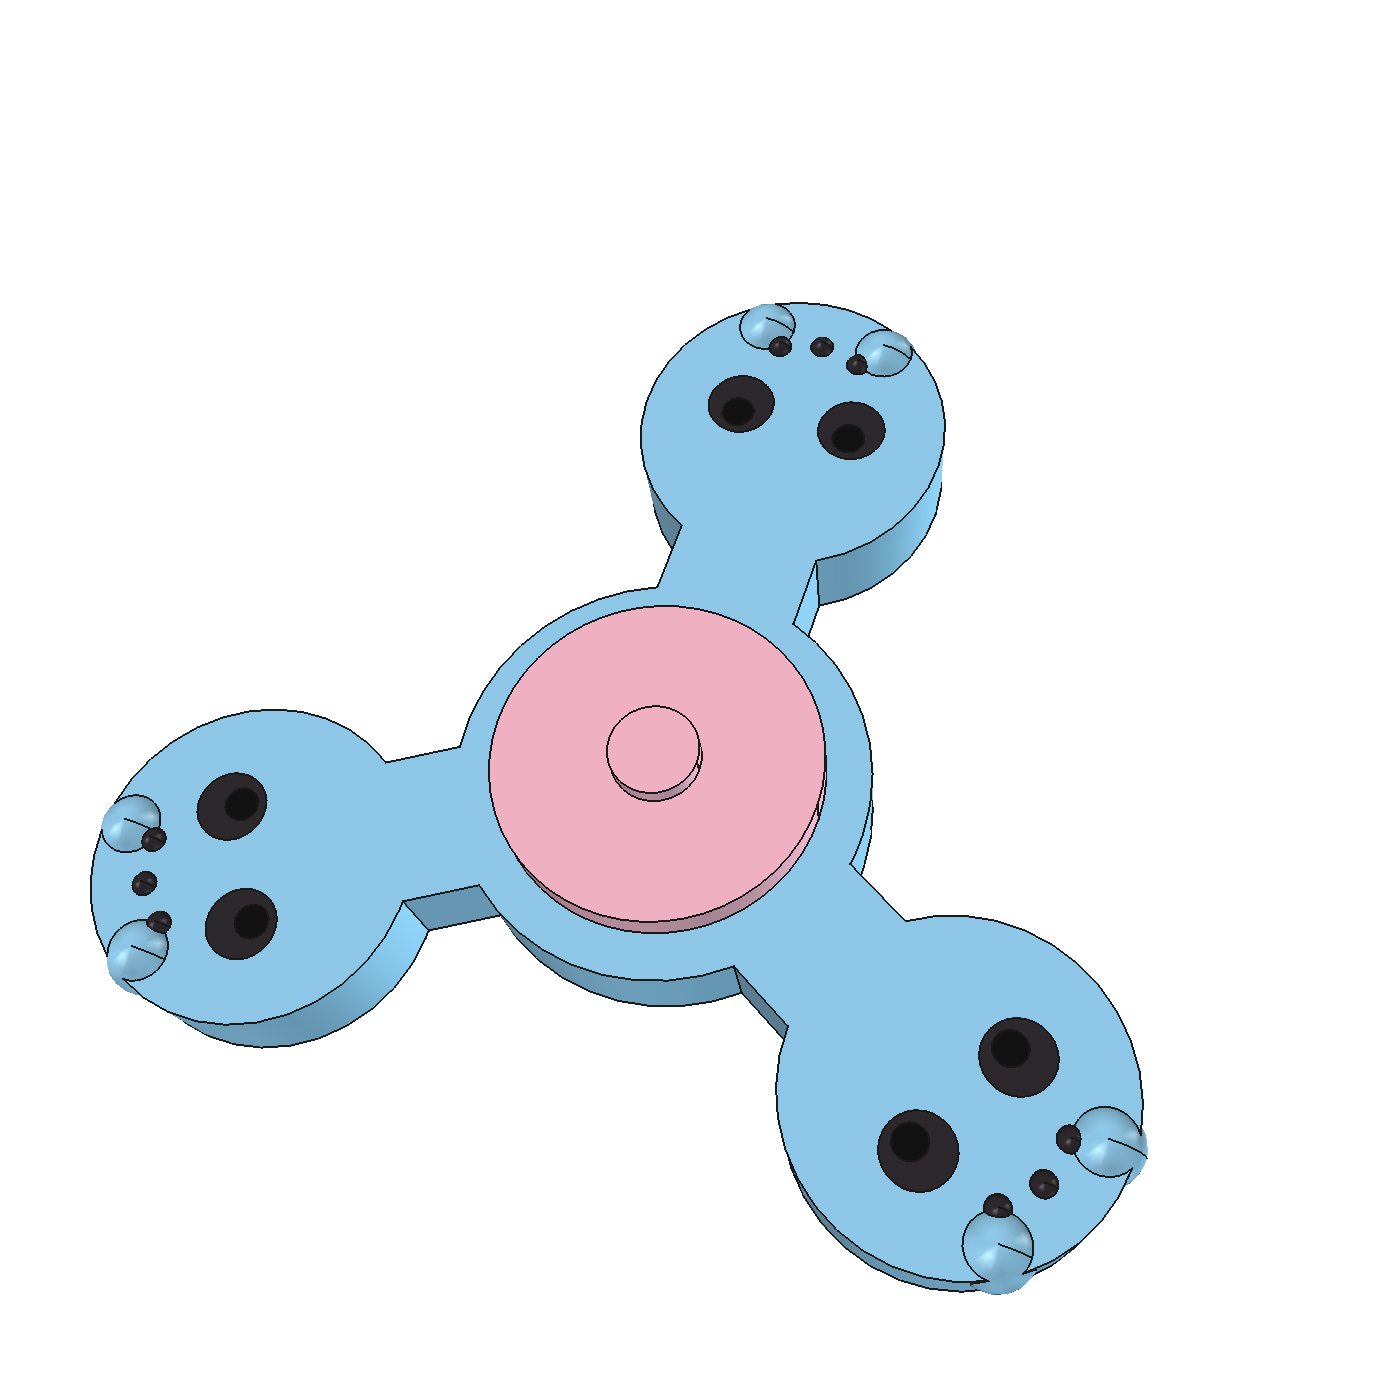
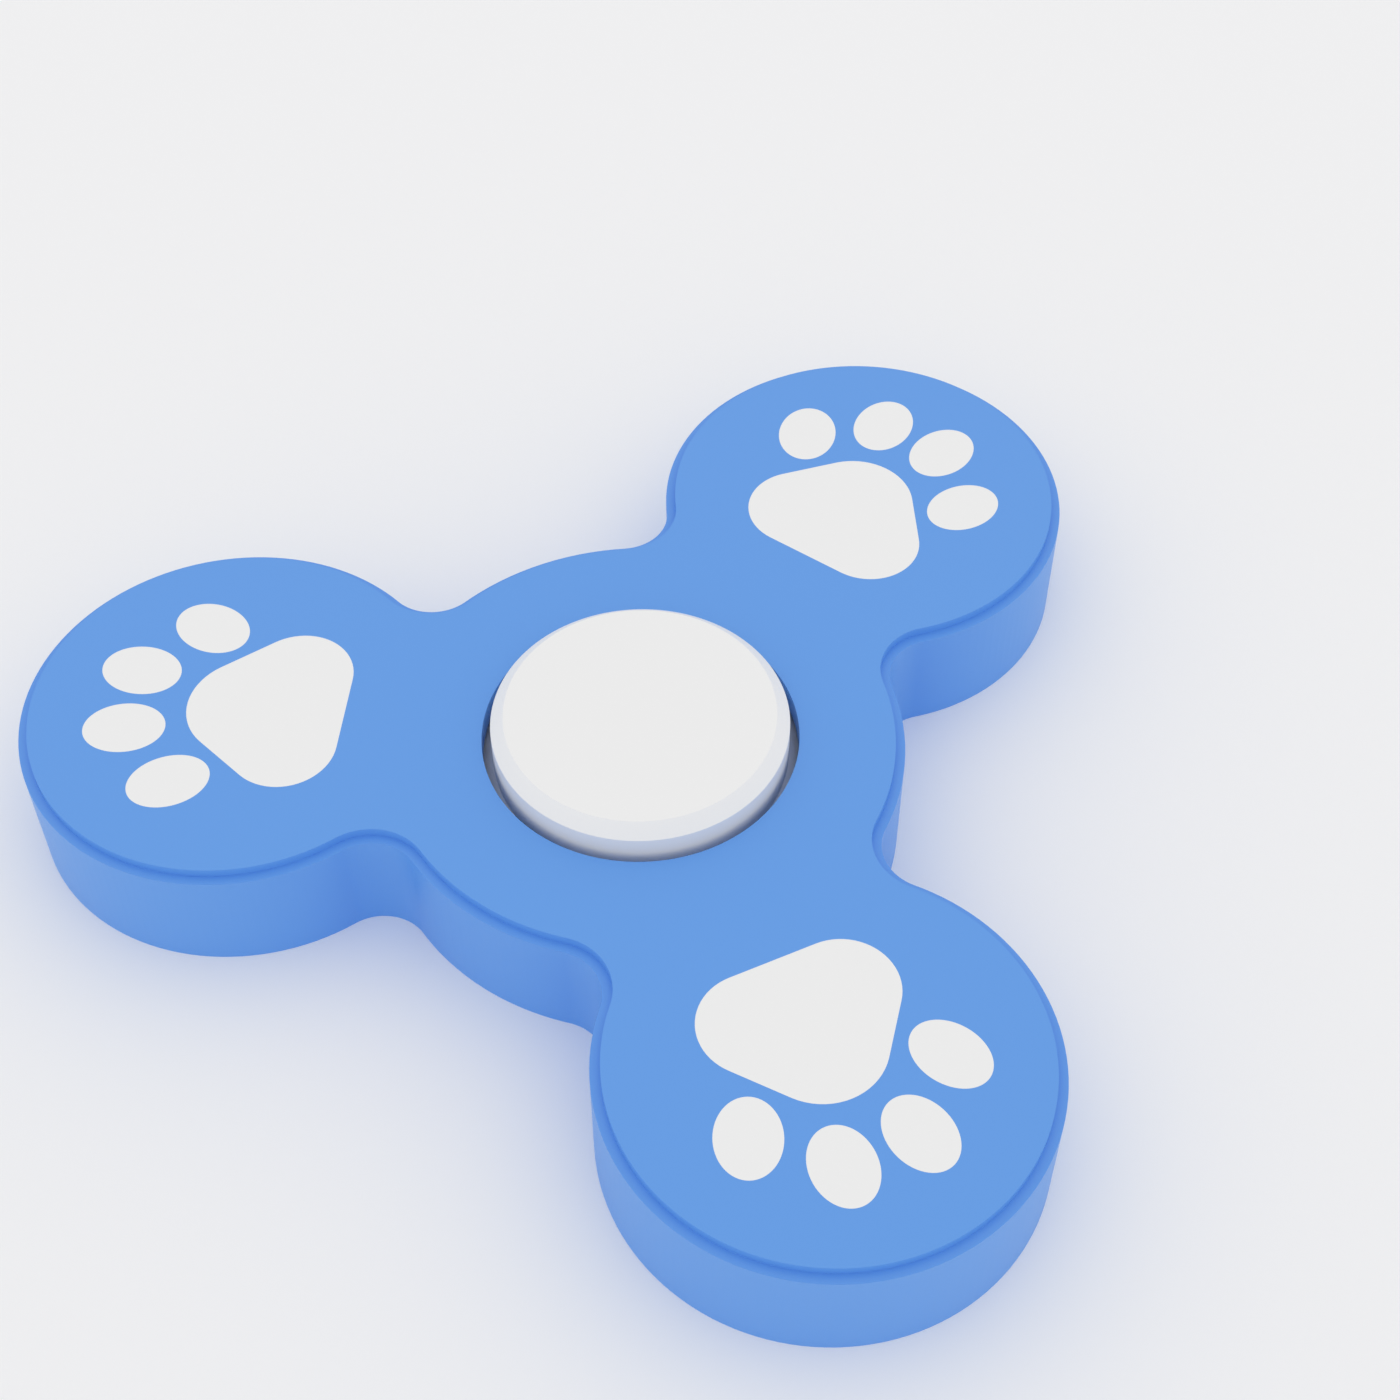
Store: Fidgets section (paw spinner as a 3-pack with Hardy's new photo), caterpillar and skateboard removed; 20% floor with .99 prices checked against competitor prices (shown on the cost sheet); postage cost updated for USPS July 2026; add-ons $1.99 / $3.49 / $3.49

diff --git a/company/site/www/index.html b/company/site/www/index.html
@@ -37,7 +37,7 @@ footer{color:rgba(255,255,255,.6);font-size:12.5px;padding:40px 0 24px;letter-sp
   color:rgba(255,255,255,.62);font-size:12.5px;padding:12px 16px 0}
 .whobar a{color:#7dd3fc;text-decoration:none;font-weight:700}
 </style><script type="application/ld+json">{"@context": "https://schema.org", "@type": "Organization", "name": "Hardy Wu", "url": "https://hardywu.com", "logo": "https://hardywu.com/logo.png", "sameAs": ["https://shop.hardywu.com", "https://bookkeep.hardywu.com"]}</script>
-<script type="application/ld+json">{"@context": "https://schema.org", "@type": "ItemList", "name": "Hardy's 3D prints", "itemListElement": [{"@type": "ListItem", "position": 1, "item": {"@type": "Product", "name": "Blue Crab Gauge", "url": "https://shop.hardywu.com/products/crab-gauge", "image": "https://play.hardywu.com/products/crab-gauge/Crab_Gauge_photo.webp", "description": "A handy blue-crab measuring gauge with an embossed scale \u2014 check your catch in seconds, then hang it back on its hook.", "offers": {"@type": "Offer", "price": "14.03", "priceCurrency": "USD", "availability": "https://schema.org/InStock"}}}, {"@type": "ListItem", "position": 2, "item": {"@type": "Product", "name": "Customizable Lunchbox", "url": "https://shop.hardywu.com/products/customizable-lunchbox", "image": "https://play.hardywu.com/products/customizable-lunchbox/Sophia_Lunchbox_render.webp", "description": "A hinged, printed lunchbox with a carry handle \u2014 pick your colors, add a name, and send a picture your kid loves to get it printed right on the front. Made to order, one of a kind.", "offers": {"@type": "Offer", "price": "38.73", "priceCurrency": "USD", "availability": "https://schema.org/InStock"}}}, {"@type": "ListItem", "position": 3, "item": {"@type": "Product", "name": "Dual Ruler", "url": "https://shop.hardywu.com/products/dual-ruler", "image": "https://play.hardywu.com/products/dual-ruler/Dual_Ruler_photo.webp", "description": "A sturdy ruler with centimeters along one edge and inches along the other, with crisp raised markings.", "offers": {"@type": "Offer", "price": "13.55", "priceCurrency": "USD", "availability": "https://schema.org/InStock"}}}, {"@type": "ListItem", "position": 4, "item": {"@type": "Product", "name": "Paw Fidget Spinner", "url": "https://shop.hardywu.com/products/fidget-spinner", "image": "https://play.hardywu.com/products/fidget-spinner/Fidget_Spinner_photo.webp", "description": "A paw-print fidget spinner with a press-fit center button and three cute lobed faces. Comes multicolored as shown.", "offers": {"@type": "Offer", "price": "17.71", "priceCurrency": "USD", "availability": "https://schema.org/InStock"}}}, {"@type": "ListItem", "position": 5, "item": {"@type": "Product", "name": "Flexi Caterpillar", "url": "https://shop.hardywu.com/products/flexi-caterpillar", "image": "https://play.hardywu.com/products/flexi-caterpillar/Flexi_Caterpillar_photo.webp", "description": "A print-in-place caterpillar with linked segments that wiggle and flex in your hand. Comes in rainbow colors as shown.", "offers": {"@type": "Offer", "price": "18.05", "priceCurrency": "USD", "availability": "https://schema.org/InStock"}}}, {"@type": "ListItem", "position": 6, "item": {"@type": "Product", "name": "Flexi Skeleton", "url": "https://shop.hardywu.com/products/flexi-skeleton", "image": "https://play.hardywu.com/products/flexi-skeleton/Flexi_Skeleton_photo.webp", "description": "A big-headed flexi skeleton with jointed limbs and a toothy grin \u2014 it flops, sits, and poses. Printed in the color you choose.", "offers": {"@type": "Offer", "price": "15.38", "priceCurrency": "USD", "availability": "https://schema.org/InStock"}}}, {"@type": "ListItem", "position": 7, "item": {"@type": "Product", "name": "Finger Skateboard", "url": "https://shop.hardywu.com/products/fingerboard", "image": "https://play.hardywu.com/products/fingerboard/Fingerboard_photo.webp", "description": "A pocket-size finger skateboard with a curved kicktail deck and real rolling wheels. Comes multicolored as shown.", "offers": {"@type": "Offer", "price": "17.11", "priceCurrency": "USD", "availability": "https://schema.org/InStock"}}}]}</script>
+<script type="application/ld+json">{"@context": "https://schema.org", "@type": "ItemList", "name": "Hardy's 3D prints", "itemListElement": [{"@type": "ListItem", "position": 1, "item": {"@type": "Product", "name": "Blue Crab Gauge", "url": "https://shop.hardywu.com/products/crab-gauge", "image": "https://play.hardywu.com/products/crab-gauge/Crab_Gauge_photo.webp", "description": "A handy blue-crab measuring gauge with an embossed scale \u2014 check your catch in seconds, then hang it back on its hook.", "offers": {"@type": "Offer", "price": "13.99", "priceCurrency": "USD", "availability": "https://schema.org/InStock"}}}, {"@type": "ListItem", "position": 2, "item": {"@type": "Product", "name": "Customizable Lunchbox", "url": "https://shop.hardywu.com/products/customizable-lunchbox", "image": "https://play.hardywu.com/products/customizable-lunchbox/Sophia_Lunchbox_render.webp", "description": "A hinged, printed lunchbox with a carry handle \u2014 pick your colors, add a name, and send a picture your kid loves to get it printed right on the front. Made to order, one of a kind.", "offers": {"@type": "Offer", "price": "35.99", "priceCurrency": "USD", "availability": "https://schema.org/InStock"}}}, {"@type": "ListItem", "position": 3, "item": {"@type": "Product", "name": "Dual Ruler", "url": "https://shop.hardywu.com/products/dual-ruler", "image": "https://play.hardywu.com/products/dual-ruler/Dual_Ruler_photo.webp", "description": "A sturdy ruler with centimeters along one edge and inches along the other, with crisp raised markings.", "offers": {"@type": "Offer", "price": "13.99", "priceCurrency": "USD", "availability": "https://schema.org/InStock"}}}, {"@type": "ListItem", "position": 4, "item": {"@type": "Product", "name": "Paw Fidget Spinner (pack of 3)", "url": "https://shop.hardywu.com/products/fidget-spinner", "image": "https://play.hardywu.com/products/fidget-spinner/Paw_Fidget_Spinner_2026-10-28.webp", "description": "Three paw-print fidget spinners in one pack: white paw prints on the arms and a centre button that spins in a groove, no bearing needed. Body in the color you pick; want three different colors? Say so in the color request box.", "offers": {"@type": "Offer", "price": "25.99", "priceCurrency": "USD", "availability": "https://schema.org/InStock"}}}, {"@type": "ListItem", "position": 5, "item": {"@type": "Product", "name": "Flexi Skeleton", "url": "https://shop.hardywu.com/products/flexi-skeleton", "image": "https://play.hardywu.com/products/flexi-skeleton/Flexi_Skeleton_photo.webp", "description": "A big-headed flexi skeleton with jointed limbs and a toothy grin \u2014 it flops, sits, and poses. Printed in the color you choose.", "offers": {"@type": "Offer", "price": "14.99", "priceCurrency": "USD", "availability": "https://schema.org/InStock"}}}]}</script>
 </head><body>
 <div class="whobar"></div>
 <div class="crumbs"></div>

diff --git a/company/corporate/server.py b/company/corporate/server.py
@@ -956,17 +956,20 @@ def cost_sheet():
         design = c.get("designHours", 0) * k.get("designPerHour", 20) / max(1, k.get("designUnits", 40))
         total = material + elec + labor + design + c.get("shipping", 0) + c.get("packaging", 0)
         price = float(p["price"]); margin = (price - total) / price if price else 0
-        rows.append((p["name"], c, material, elec, labor, design, total, total / (1 - k.get("minMargin", .3)), price, margin))
+        rows.append((p["name"] + (" ✎" if p.get("priceSetBy") else ""), c, material, elec, labor, design, total, total / (1 - k.get("minMargin", .3)), price, margin, p.get("market", "")))
     ad = cat.get("addons") or {}
     html = ["<!doctype html><meta charset=utf-8><meta name=viewport content='width=device-width,initial-scale=1'><title>Costs — Hardy's 3D</title>",
             "<style>body{font-family:-apple-system,Inter,sans-serif;background:#03102c;color:#fff;padding:20px;max-width:1100px;margin:0 auto}table{border-collapse:collapse;width:100%;font-size:14px;margin:14px 0}td,th{padding:7px 8px;border-bottom:1px solid rgba(255,255,255,.15);text-align:right}th:first-child,td:first-child{text-align:left}th{color:#9fd1ff;font-weight:600}.ok{color:#5fd38a;font-weight:700}.bad{color:#ff6b6b;font-weight:700}.sm{color:rgba(255,255,255,.65);font-size:13px}a{color:#9fe3ff}</style>",
             "<h1>What each piece costs</h1><p class=sm>Shipping is free for the buyer, so postage is part of the cost. Price must leave at least " + f"{k.get('minMargin', .3):.0%}" + " gross margin. Numbers are estimates in company/site/shop/data/catalog.json — tell Claude to change any of them.</p>",
-            "<table><tr><th>Product</th><th>Filament</th><th>Print</th><th>Material</th><th>Electricity</th><th>Labour</th><th>Design</th><th>Postage</th><th>Packaging</th><th>Cost</th><th>Min price</th><th>Price</th><th>Margin</th></tr>"]
-    for name, c, m, e, l, d, t, mn, pr, mg in rows:
+            "<table><tr><th>Product</th><th>Filament</th><th>Print</th><th>Material</th><th>Electricity</th><th>Labour</th><th>Design</th><th>Postage</th><th>Packaging</th><th>Cost</th><th>Min price</th><th>Price</th><th>Margin</th><th style='text-align:left'>What competitors charge</th></tr>"]
+    for name, c, m, e, l, d, t, mn, pr, mg, mk in rows:
         cls = "ok" if mg >= k.get("minMargin", .3) - 1e-9 else "bad"
-        html.append(f"<tr><td>{name}</td><td>{c.get('grams',0)} g</td><td>{c.get('printHours',0)} h</td><td>${m:.2f}</td><td>${e:.2f}</td><td>${l:.2f} <span class=sm>({c.get('laborHours',0)} h)</span></td><td>${d:.2f} <span class=sm>({c.get('designHours',0)} h ÷ {k.get('designUnits',40)})</span></td><td>${c.get('shipping',0):.2f}</td><td>${c.get('packaging',0):.2f}</td><td><b>${t:.2f}</b></td><td>${mn:.2f}</td><td><b>${pr:.2f}</b></td><td class={cls}>{mg:.0%}</td></tr>")
+        html.append(f"<tr><td>{name}</td><td>{c.get('grams',0)} g</td><td>{c.get('printHours',0)} h</td><td>${m:.2f}</td><td>${e:.2f}</td><td>${l:.2f} <span class=sm>({c.get('laborHours',0)} h)</span></td><td>${d:.2f} <span class=sm>({c.get('designHours',0)} h ÷ {k.get('designUnits',40)})</span></td><td>${c.get('shipping',0):.2f}</td><td>${c.get('packaging',0):.2f}</td><td><b>${t:.2f}</b></td><td>${mn:.2f}</td><td><b>${pr:.2f}</b></td><td class={cls}>{mg:.0%}</td><td class=sm style='text-align:left'>{mk}</td></tr>")
     html.append("</table><h2>Rates</h2><table>" + "".join(f"<tr><td>{kk}</td><td>{vv}</td></tr>" for kk, vv in k.items() if kk != "note") + "</table>")
-    html.append(f"<h2>Add-ons</h2><p>Name +${ad.get('text',2)}, picture +${ad.get('image',2)}, each extra colour +${ad.get('extraColor',2)} — a picture or an extra colour is a filament change, about ten minutes of work.</p><p class=sm>{k.get('note','')}</p><p><a href='/orders'>← orders</a></p>")
+    ac = cat.get("addonCost") or {}
+    html.append("<h2>Add-ons</h2><table><tr><th>Add-on</th><th>What it takes</th><th>Cost</th><th>Price</th><th>Margin</th></tr>" + "".join(
+        f"<tr><td>{({'text':'Name','image':'Picture','extraColor':'Each extra colour'}).get(key,key)}</td><td>{a.get('why','')}</td><td>${a.get('cost',0):.2f}</td><td>${ad.get(key,0):.2f}</td><td class=ok>{(ad.get(key,0)-a.get('cost',0))/ad.get(key,1):.0%}</td></tr>" for key, a in ac.items()) + "</table>")
+    html.append(f"<p class=sm>Prices marked ✎ were set by Hardy and may be below the {k.get('minMargin', .3):.0%} target. {k.get('note','')}</p><p><a href='/orders'>← orders</a></p>")
     return "\n".join(html)
 
 @app.get("/api/orders/mine")

diff --git a/company/site/shop/docs/TASKS.md b/company/site/shop/docs/TASKS.md
@@ -112,3 +112,7 @@ Late additions (2026-08-14 → 17, all built & demo-verified): per-zone color pi
 - Open: a card payment provider (Stripe) is still not set up — checkout says 'no card needed now'. Letting Hardy change filament stock levels from his dashboard instead of the catalog file.
 - Hardy: 'calculate the cost for the material, electricity, time and design; shipping free; the picture should be oriented as it will be printed; buyers can drag the picture and name where they want; gross margin at least 30%'. Cost model in catalog.json (`costing` + per-product `cost`), docs/COSTS.md, owner cost sheet at play.hardywu.com/costs; shipping free (shippingCents 0, wording everywhere incl. the agent feed); prices now lunchbox $39, crab gauge $15, ruler $14 (30–35% margin); add-ons name $3, picture $4, extra colour $4; live preview: picture and name draggable with size sliders, clipped to the printable area, placement saved in the cart line and the order details. Tested end to end; test orders deleted.
 - Hardy: 'rulers are tools, put that under tools and add a toy section' + 'round the money to the nearest .99'. Categories are now Lunchboxes · Tools (crab gauge, dual ruler) · Toys (paw fidget spinner, flexi caterpillar, flexi skeleton, finger skateboard — the four toys in products/prints/items with real photos; their info.md 'Sell this?' flipped to yes). Every price is the next X.99 above cost ÷ 0.7: $38.99 / $14.99 / $13.99 / $17.99 / $18.99 / $15.99 / $17.99; add-ons $2.99 name, $3.99 picture, $3.99 extra colour. Cards show dollars big and cents small.
+- Hardy: 'make the caterpillar a fidget and remove the skateboard from the website'. New category Fidgets (Flexi Caterpillar); Finger Skateboard removed from the catalog (info.md 'Sell this?' → no).
+- Hardy: 'take off the caterpillar and add the star fidget'. Caterpillar removed (info.md → no). Fidgets now holds the Paw Fidget Spinner, with Hardy's redesigned photo and description from today. **Star fidget: no design or photo found on the Mac (Documents/3D has none) — waiting for Hardy's files.**
+- Hardy set prices: crab gauge $10, lunchbox $27, ruler $10, paw fidget spinner $15 for a pack of 3 (`priceSetBy` in the catalog, ✎ on the cost sheet). At today's cost estimates these margins are 1.9 %, −0.4 %, 5.2 % and −31 %. Add-ons now priced at exactly 30 % from their own cost (`addonCost`): name $1.82, picture $3.73, extra colour $3.73. Star fidget to be priced at 30 % when its design exists.
+- Hardy: 'fine, do 20% but think about the customer and competitors'. Floor now 20 %, .99 prices: lunchbox $35.99, crab gauge $13.99, ruler $13.99, 3-pack spinners $25.99, flexi skeleton $14.99; add-ons $1.99 / $3.49 / $3.49. Postage cost corrected (USPS July 2026). Competitor prices recorded per product (`market`) and shown on the cost sheet.

diff --git a/company/site/shop/docs/COSTS.md b/company/site/shop/docs/COSTS.md
@@ -31,3 +31,26 @@ about ten minutes of Hardy's time, so $2 lost money).
 
 Price = cost ÷ 0.7, rounded up to the cent, so every product earns exactly 30 % (Hardy: '30% on the dot'). This replaced the earlier .99 rounding.
 The old prices ($30 / $5 / $5 plus $5 shipping) did not cover the cost of the two small items.
+
+## 2026-10-28 — prices Hardy set
+
+Crab gauge $10, lunchbox $27, ruler $10, paw fidget spinner $15 for a pack of 3 (cost of a pack ≈ $19.67: 75 g, 6 h printing, 0.8 h labour, one parcel). Flexi skeleton stays at the 30 % rule ($15.38). Add-ons are cost ÷ 0.7: name $1.82 (5 min), picture $3.73 and extra colour $3.73 (10 min + 5 g purge each). The biggest cost on the small items is postage (free shipping) and labour at $15/h — lowering either is how these prices reach 30 %.
+
+## 2026-10-28 — 20 % floor, priced against the market
+
+Hardy: "do 20 % but think about the customer and what price he'll buy at; there are a lot of competitors." Rule now: the
+smallest price ending in .99 that leaves at least 20 %. Postage corrected to USPS Ground Advantage after the July 2026
+change (≈ $5.50 small parcel, ≈ $7.50 lunchbox) — free shipping is the biggest single cost on the small items.
+
+| Product | Cost | Price | Margin | What competitors charge |
+| --- | --- | --- | --- | --- |
+| Customizable Lunchbox | $28.11 | $35.99 | 22 % | personalised lunch/bento boxes $20–28 (not 3D-printed, no picture) |
+| Blue Crab Gauge | $10.81 | $13.99 | 23 % | Etsy gauges $6–22, store gauges $3–10 |
+| Dual Ruler | $10.48 | $13.99 | 25 % | plain rulers $1–5 — hard to sell at this price |
+| Paw Fidget Spinner, 3-pack | $20.67 | $25.99 | 21 % | 3D-printed 3-packs $20–35 |
+| Flexi Skeleton | $11.76 | $14.99 | 22 % | Etsy flexi skeletons mostly $5–15 |
+
+Add-ons: name $1.99 (36 %), picture $3.49 (25 %), extra colour $3.49 (25 %).
+
+Where the price sits above the market (lunchbox, ruler), the levers are cost, not margin: charge shipping under a free-shipping
+threshold (one $5.50 label covers several small items), sell small items as kits or packs, or count less of Hardy's time per piece.

diff --git a/company/products/prints/items/fingerboard/info.md b/company/products/prints/items/fingerboard/info.md
@@ -2,12 +2,13 @@
 
 Filled in by Claude 2026-08-14 per Barbara's instructions (fair pricing, options where they fit). Barbara: change anything freely.
 
-- **Sell this?** yes — Hardy 2026-10-28: toys section on the store (priced from the cost sheet with free shipping and 30% margin: $18)
+- **Sell this?** no — Hardy 2026-10-28: removed from the website
 - **Price:** $8
 - **Colors:** all my shop colors (see shop-info.md)
 - **Multicolored:** yes — printed in multiple colors as shown; say so on the product page
 - **Sizes:** none
 - **Custom text? (max 30 characters):** yes — a name under the deck
 - **Customer image upload?** no
-- **Short description:** A pocket-size finger skateboard with a curved kicktail deck and real rolling wheels. Comes multicolored as shown.
-- **Photos:** Fingerboard_photo.png, Fingerboard_settings.png
+- **Short description:** A pocket-size finger skateboard with kicktails at both ends, two trucks and four wheels that really roll. Comes multicolored as shown.
+- **Photos:** Fingerboard_photo.png, Fingerboard_under.png
+- **2026-10-28 redesign:** models rebuilt in Fusion 360 (files in ~/Documents/3D/Fingerboard); photos re-rendered.

diff --git a/company/products/prints/items/flexi-caterpillar/info.md b/company/products/prints/items/flexi-caterpillar/info.md
@@ -2,12 +2,13 @@
 
 Filled in by Claude 2026-08-14 per Barbara's instructions (fair pricing, options where they fit). Barbara: change anything freely.
 
-- **Sell this?** yes — Hardy 2026-10-28: toys section on the store (priced from the cost sheet with free shipping and 30% margin: $19)
+- **Sell this?** no — Hardy 2026-10-28: taken off the website
 - **Price:** $10
 - **Colors:** all my shop colors (see shop-info.md)
 - **Multicolored:** yes — printed in multiple colors as shown; say so on the product page
 - **Sizes:** none
 - **Custom text? (max 30 characters):** no
 - **Customer image upload?** no
-- **Short description:** A print-in-place caterpillar with linked segments that wiggle and flex in your hand. Comes in rainbow colors as shown.
-- **Photos:** Flexi_Caterpillar_photo.png, Flexi_Caterpillar_settings.png
+- **Short description:** A print-in-place caterpillar with nine linked segments that swing side to side, a smiley face and two antennae. Comes in rainbow colors as shown.
+- **Photos:** Flexi_Caterpillar_photo.png
+- **2026-10-28 redesign:** models rebuilt in Fusion 360 (files in ~/Documents/3D/Flexi_Caterpillar); photos re-rendered.

diff --git a/company/products/prints/items/fidget-spinner/info.md b/company/products/prints/items/fidget-spinner/info.md
@@ -9,5 +9,6 @@ Filled in by Claude 2026-08-14 per Barbara's instructions (fair pricing, options
 - **Sizes:** none
 - **Custom text? (max 30 characters):** no
 - **Customer image upload?** no
-- **Short description:** A paw-print fidget spinner with a press-fit center button and three cute lobed faces. Comes multicolored as shown.
-- **Photos:** Fidget_Spinner_photo.png, Fidget_Spinner_settings.png
+- **Short description:** A paw fidget spinner with three paw prints and a centre button that is printed already locked in place, so there is no bearing to buy or lose. Comes multicolored as shown.
+- **Photos:** Fidget_Spinner_photo.png
+- **2026-10-28 redesign:** models rebuilt in Fusion 360 (files in ~/Documents/3D/Fidget_Spinner); photos re-rendered.
